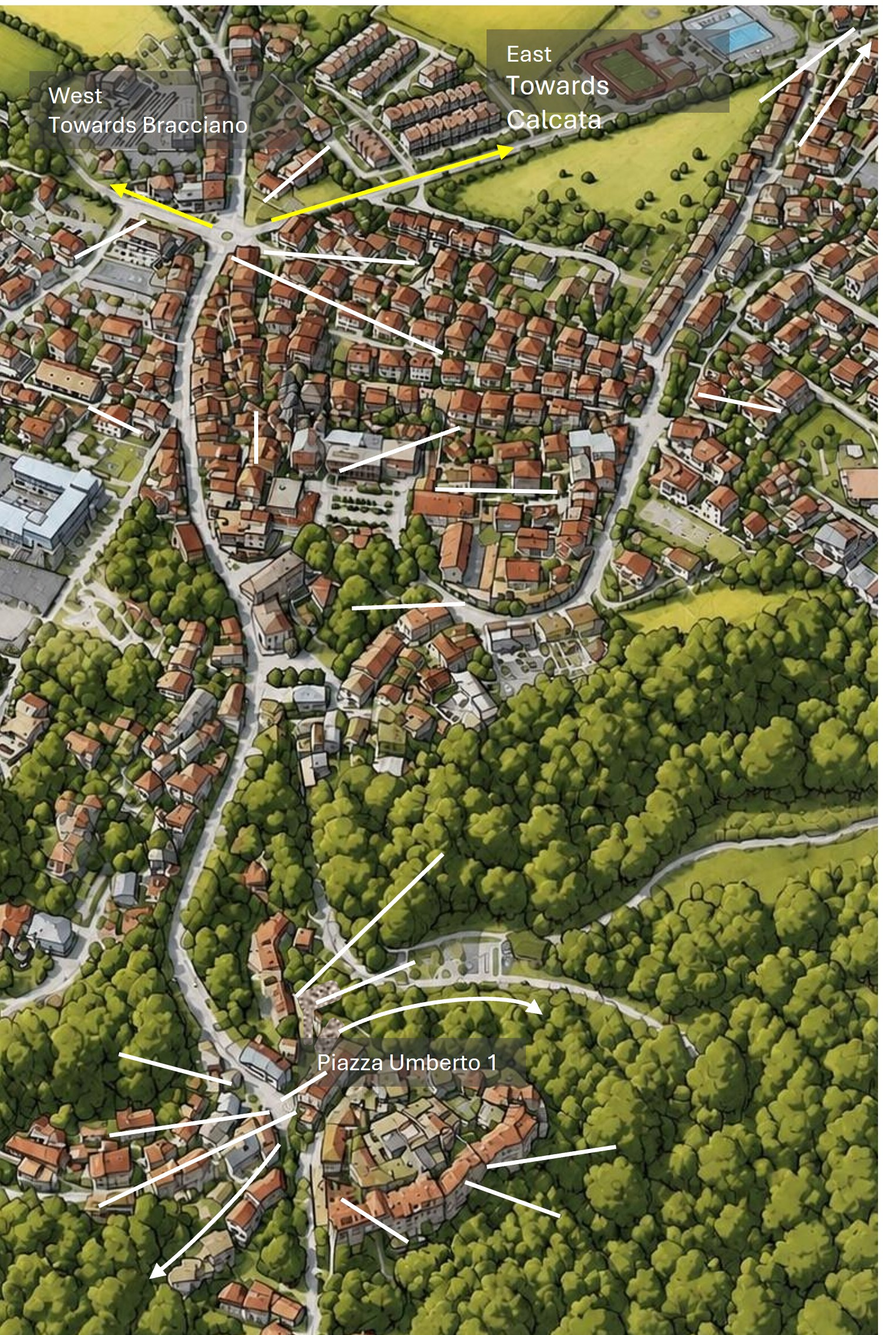
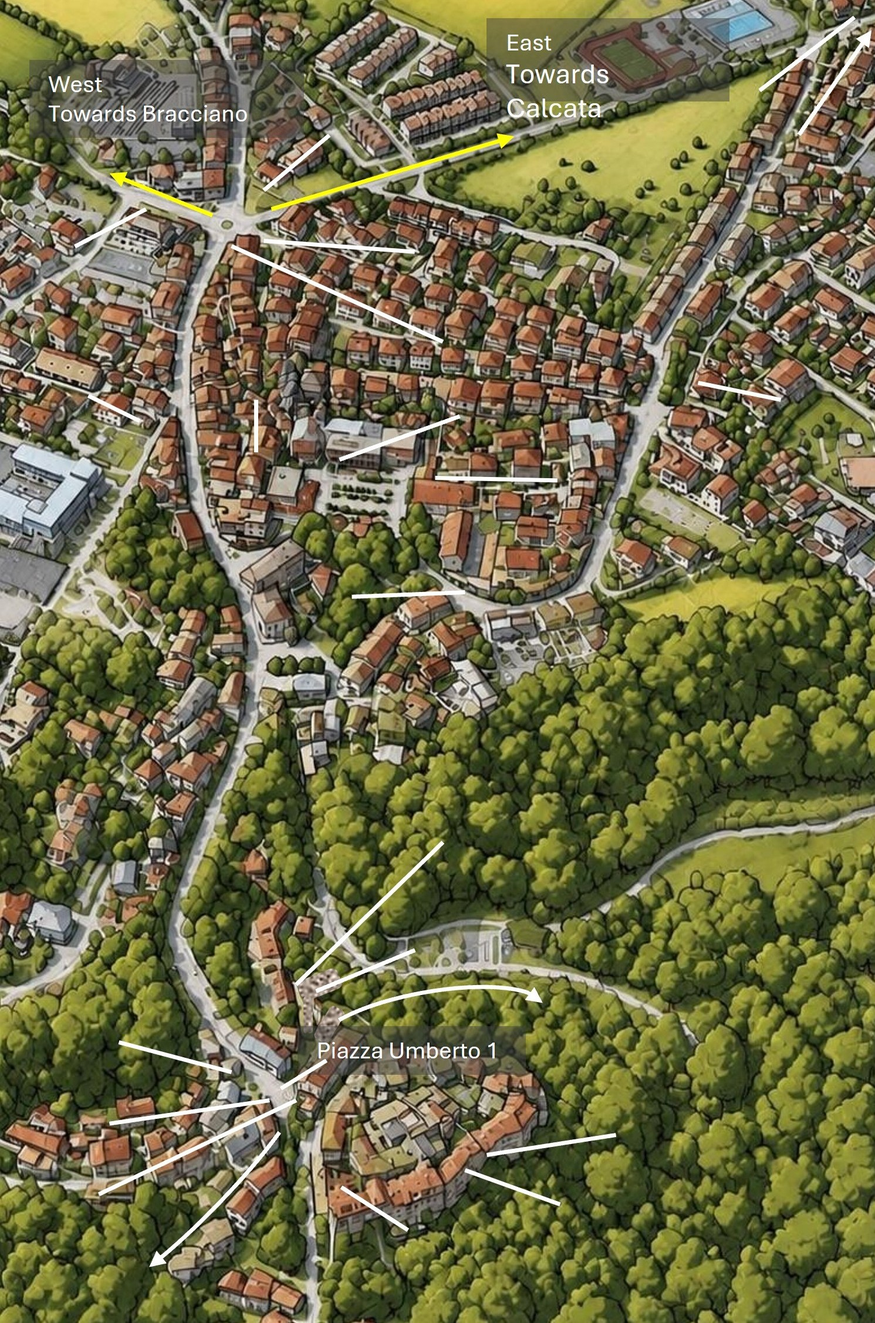
Add files via upload

diff --git a/index.html b/index.html
@@ -52,6 +52,14 @@
     transition: transform 0.15s ease;
   }
   .icon:hover { transform: translate(-50%, -50%) scale(1.12); }
+  /* Icons on the BASE map are partly see-through (set AREA_ICON_OPACITY in the settings below),
+     so they hide less of the map; they turn solid when the pointer is over them.
+     Icons on the Mazzano picture are not affected. */
+  .map > .icon {
+    opacity: var(--area-icon-opacity, 1);
+    transition: transform 0.15s ease, opacity 0.15s ease;
+  }
+  .map > .icon:hover { opacity: 1; }
   .icon img { position: absolute; inset: 0; width: 100%; height: 100%; display: block; }
 
   /* Title block on the base map ("Around Mazzano Romano" + three links + hint).
@@ -118,22 +126,23 @@
     object-position: center 35%;  /* which part is kept when cropped: 0% = top, 100% = bottom */
     margin: 0 -16px 10px;
   }
-  /* Optional second picture further down the popup (image2) */
+  /* Optional extra pictures further down the popup (image2 ... image5).
+     The picture sits on the left and its text wraps around it; once the text is longer than
+     the picture, it carries on across the full width of the popup. */
   .popup .pair {
-    display: flex;
-    flex-wrap: wrap;            /* on a very narrow screen the text drops below the picture */
-    align-items: flex-start;
-    gap: 14px;
+    display: flow-root;         /* the box grows to hold the picture, so the next picture starts below it */
     margin: 10px 0;
   }
   .popup img.pic {
-    display: block;
-    width: calc(50% - 7px);     /* second picture: half the popup width; change 50% to resize */
+    float: left;
+    width: calc(50% - 7px);     /* extra picture: half the popup width; change 50% to resize */
     height: auto;               /* keeps the picture's proportions */
     border-radius: 6px;
-    margin: 0;
+    margin: 0 14px 6px 0;       /* gap to the text on the right, and below the picture */
   }
-  .popup .pair .body { flex: 1 1 180px; min-width: 0; }
+  @media (max-width: 560px) {
+    .popup .pair .body { clear: both; }   /* narrow screens (phones): the text goes below the picture */
+  }
   .popup h3 { margin: 0 28px 10px 0; font-size: 18px; }
   .popup p  { margin: 0 0 8px; }
   .popup .body { white-space: pre-line; }  /* keeps your line breaks */
@@ -281,6 +290,14 @@ const LAYER_SCALE = 1.25;
 const LAYER_DROP = 10;
 
 /*
+  AREA_ICON_OPACITY : how see-through the icons on the BASE map are.
+                      1 = solid (as before), 0.7 = slightly see-through, 0.5 = half see-through.
+                      An icon becomes solid when the pointer is over it.
+                      (The icons on the Mazzano picture are not changed.)
+*/
+const AREA_ICON_OPACITY = 0.7;
+
+/*
   ============================================================
   PLACES - approximate positions of every name on your map
   ============================================================
@@ -401,6 +418,7 @@ const locations = [
 ].concat(loadList("areaLocations", "Mazzano_area.js"));
 
 const map = document.getElementById("map");
+map.style.setProperty("--area-icon-opacity", AREA_ICON_OPACITY);
 const baseImage = document.getElementById("baseImage");
 const readout = document.getElementById("readout");
 let openPopup = null;
@@ -433,8 +451,8 @@ function showPopup(loc, iconEl, container) {
     html += '<img class="hero" src="' + loc.image + '" alt="' + loc.title + '">';
   }
   html += '<div class="body">' + loc.text + "</div>";
-  // Extra pictures and texts: image2/text2 up to image5/text5. Each pair is shown with
-  // the picture on the left and its text on the right (either half may be left out).
+  // Extra pictures and texts: image2/text2 up to image5/text5. Each picture floats on the left
+  // with its text wrapping around it, then running full width below it (either half may be left out).
   for (let n = 2; n <= 5; n++) {
     const pic = loc["image" + n];
     const txt = loc["text" + n];

diff --git a/Mazzano_area.js b/Mazzano_area.js
@@ -26,6 +26,28 @@ const areaLocations = [
   },
 //END Anquillara BLOCK
 
+
+//BAGNIOREGIO AND BOLSENA
+
+  {
+    x: 8.5, y: 26.6,
+    icon: "Civita bagnoregio.svg",
+    title: "Civita Bagnoregio, Bolsena and Lake Bolsena",
+    image: "Civita bagnoregio 1.jpg",
+    text: `Just north of Viterbo are many spectacular places to visit.
+
+Civita di Bagnoregio (1 1/2 hrs drive) is on the site of a 2,500-year-old Etruscan village dramatically isolated atop a crumbling volcanic plateau in Lazio, Italy, is famously nicknamed "il paese che muore" (the dying city). Relentless geological erosion causes the surrounding cliffs to fracture and collapse, leaving a medieval citadel that is only accessible via a pedestrian footbridge. `,
+
+image2:"civita bagnoregio 2.jpg",
+
+text2: `To combat this slow-motion destruction, modern geologists and engineers have implemented advanced technological structural monitoring systems. They have reinforced the fragile underground caverns with massive steel anchoring rods, injected structural nails, and concrete wells to stabilize the terrain. These vital engineering interventions are funded directly by a €5 entrance fee paid by global tourists.The entry fee has successfully transformed the threat of over-tourism into a self-sustaining conservation model, running alongside an official bid for UNESCO World Heritage protection.`,
+
+image3: "Bolsena.jpg",
+
+text3: `Spectacular Lake Bolsena (1 1/2 hrs drive) is Europe’s largest volcanic crater lake and one of Italy’s most picturesque hidden gems. Formed over 300,000 years ago in a collapsed volcanic caldera, its incredibly clear, swimmable waters are framed by striking black-sand beaches and rolling hills draped in olive groves and vineyards. The shoreline is dotted with postcard-perfect medieval fishing villages, while two private, monument-rich islands rise dramatically from the centre. Striking a perfect balance between wild natural beauty and quiet historic charm, it remains a tranquil, highly photogenic alternative to Italy's crowded northern lakes.`,
+  },
+//END BAGNIO REGIO AND BOLSEA BLOCK
+
 //Bracciano
   {
     x: 6.3, y: 81.9,
@@ -375,6 +397,17 @@ Church of Santa Maria Assunta - a 16th-century church nestled within the histori
   },
 //END TREVIGNANO BLOCK
 
+//TREVIGNANO
+  {
+    x: 10.0, y: 63.5,
+    icon: "Truffle.svg",
+    image: "Truffle.jpg",
+    title: "Truffle hHut",
+    text: `XXX`,
+    link: "https://en.wikipedia.org/wiki/Mazzano_Romano",
+    linkText: "Parking suggestion"
+  },
+//END TRUFFLE HUNT BLOCK
 
 //VITERBO
   {
